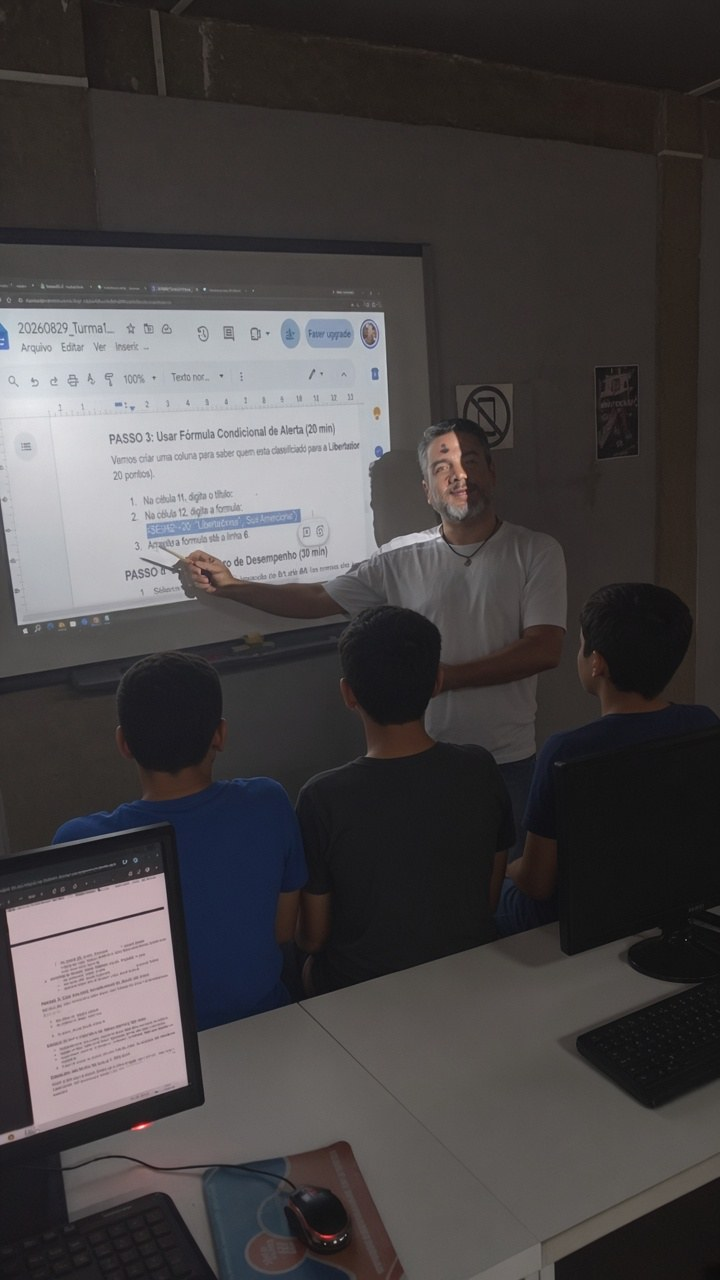
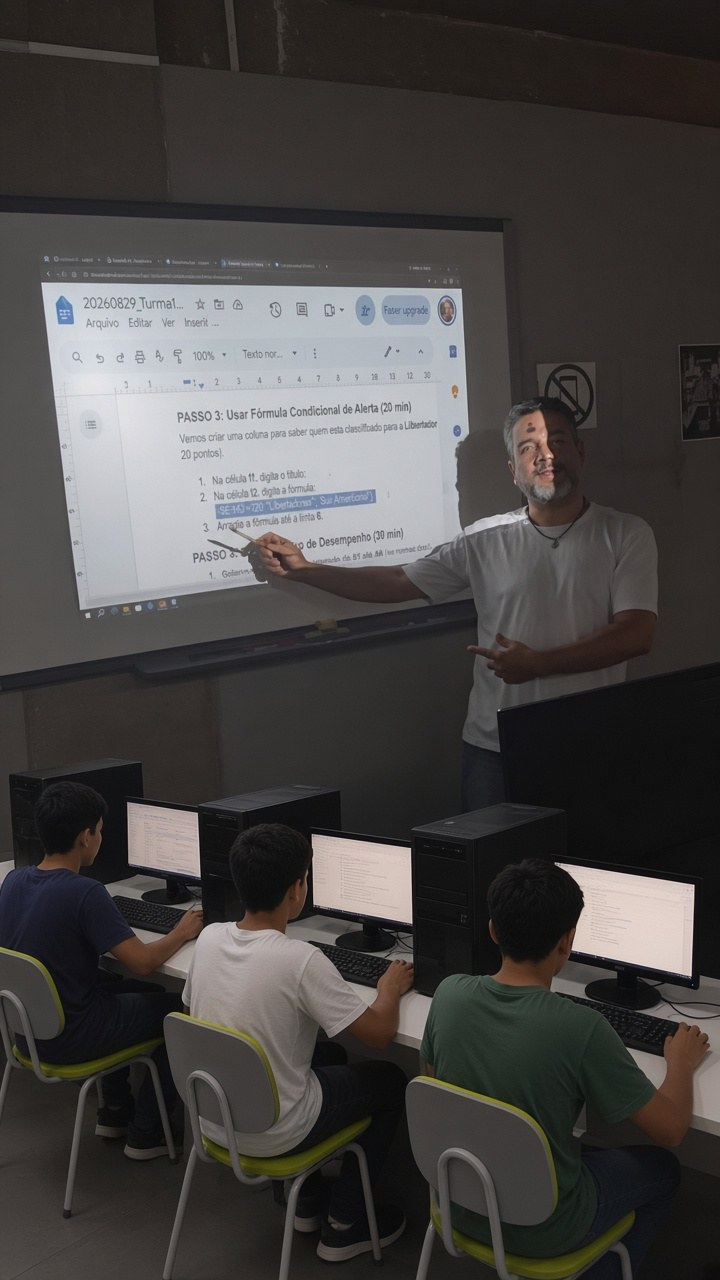
Coloca os alunos sentados atrás dos computadores na foto da aula.

diff --git a/index.html b/index.html
@@ -190,9 +190,9 @@
                 </div>
                 <div class="hero-visual">
                     <picture>
-                        <source srcset="assets/FotoSite.webp?v=aula4" type="image/webp">
+                        <source srcset="assets/FotoSite.webp?v=aula5" type="image/webp">
                         <img
-                            src="assets/FotoSite.jpg?v=aula4"
+                            src="assets/FotoSite.jpg?v=aula5"
                             alt="Paulo Teodoro Pinto Júnior (Papijunior) — aula de gestão de projetos com cronograma Gantt no PapiLAB"
                             width="720"
                             height="1280"

diff --git a/en/index.html b/en/index.html
@@ -187,9 +187,9 @@
                 </div>
                 <div class="hero-visual">
                     <picture>
-                        <source srcset="assets/FotoSite.webp?v=aula4" type="image/webp">
+                        <source srcset="assets/FotoSite.webp?v=aula5" type="image/webp">
                         <img
-                            src="assets/FotoSite.jpg?v=aula4"
+                            src="assets/FotoSite.jpg?v=aula5"
                             alt="Paulo Teodoro Pinto Júnior (papijunior) — teaching project management with a Gantt chart at PapiLAB"
                             width="720"
                             height="1280"
